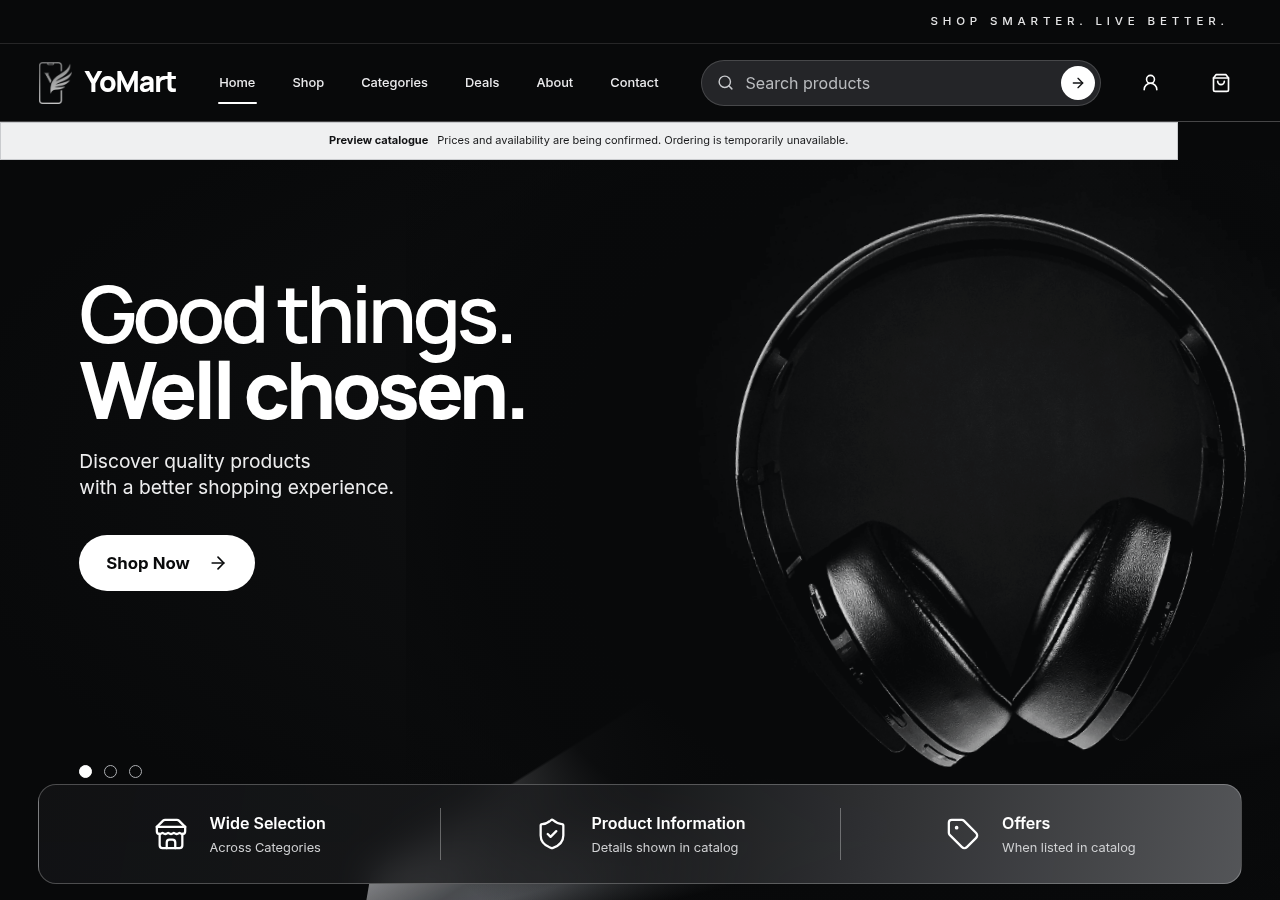
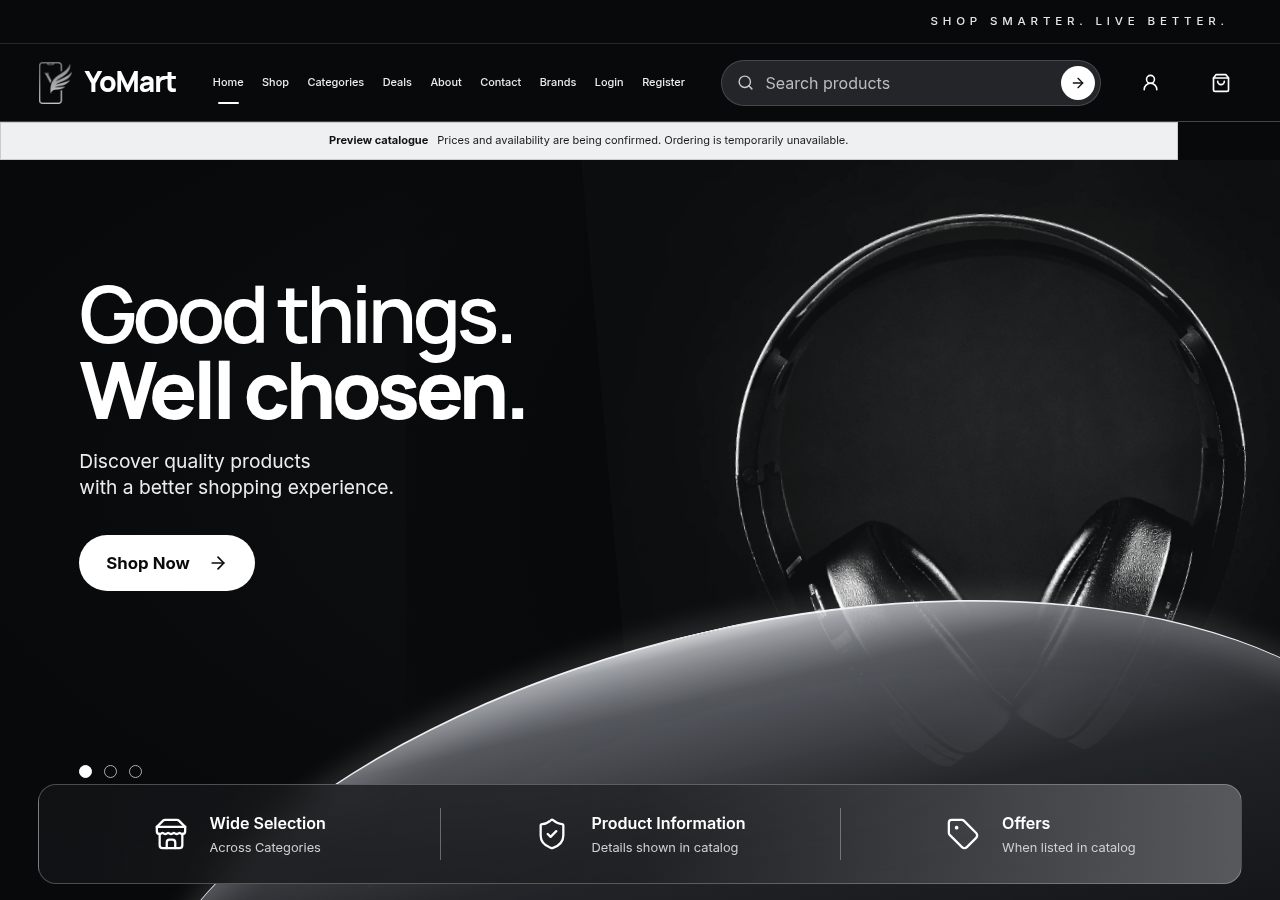
fix: restore homepage silver arc and navigation

diff --git a/src/style.css b/src/style.css
@@ -863,14 +863,16 @@ main > * { animation: page-enter 520ms var(--ease-emphasized) both; }
 .home-site-frame .main-nav a { min-height: 48px; padding-inline: clamp(7px, 1.05vw, 17px); color: #ececee; font-size: clamp(.78rem, 1vw, .95rem); white-space: nowrap; }
 .home-site-frame .main-nav a:hover { background: rgb(255 255 255 / 8%); }
 .home-site-frame .main-nav a.active::after { right: 12px; bottom: 3px; left: 12px; height: 2px; }
+.home-site-frame .main-nav .home-nav-brands-link,
+.home-site-frame .main-nav .home-nav-auth-link { display: inline-flex; }
+.home-site-frame .main-nav { flex: 0 1 auto; gap: clamp(0px, .35vw, 6px); }
+.home-site-frame .main-nav a { padding-inline: clamp(4px, .55vw, 9px); font-size: clamp(.68rem, .83vw, .78rem); }
 .home-site-frame .header-search { max-width: 480px; height: 46px; border-color: rgb(255 255 255 / 16%); border-radius: 28px; background: #242528; }
 .home-site-frame .account-link { width: 40px; height: 44px; padding: 0; }
 .home-site-frame .account-link span { display: none; }
 .home-site-frame .bag-link { width: 42px; height: 44px; border: 0; border-radius: 0; }
 .home-site-frame .menu-toggle { display: none; }
 .home-site-frame .wordmark img { filter: grayscale(1) brightness(0) invert(1); }
-.home-site-frame .main-nav .home-nav-brands-link,
-.home-site-frame .main-nav .home-nav-auth-link { display: none; }
 .home-site-frame .preview-catalog-notice { margin: 0; border-radius: 0; }
 .homepage { color: #f7f7f8; background: #08090a; }
 .homepage .hero-wrap { position: relative; width: 100%; min-height: min(810px, calc(100svh - 150px)); margin: 0; padding: clamp(72px, 9vw, 150px) max(6.2vw, calc((100% - 1500px) / 2)) 148px; overflow: hidden; display: block; border: 0; border-radius: 0; isolation: isolate; background: radial-gradient(ellipse at 82% 42%, #151618 0%, #0c0d0e 47%, #08090a 76%); box-shadow: none; }
@@ -885,10 +887,10 @@ main > * { animation: page-enter 520ms var(--ease-emphasized) both; }
 .homepage .hero-shop-button:focus-visible { outline: 3px solid #9ea1a6; outline-offset: 4px; }
 .homepage .hero-stage { position: absolute; z-index: auto; top: 0; right: 0; bottom: 115px; width: 61%; max-height: none; aspect-ratio: auto; pointer-events: none; animation: none; }
 .homepage .hero-stage::before { position: absolute; z-index: 1; inset: -18% -12%; background: radial-gradient(ellipse at 54% 52%, #08090a 0 49%, rgb(8 9 10 / 94%) 62%, transparent 88%); content: ''; }
-.homepage .hero-silver-arc { position: absolute; display: block; border-radius: 50%; transform: rotate(-26deg); }
-.homepage .hero-silver-arc-one { display: none; }
-.homepage .hero-silver-arc-two { display: none; }
-.homepage .hero-headphones { position: absolute; z-index: 2; top: 3%; right: -12%; width: 100%; height: 96%; object-fit: contain; object-position: 52% 49%; transform: translateY(6%) scale(1.55) rotate(-5deg); mix-blend-mode: screen; filter: grayscale(1) contrast(1.12) drop-shadow(0 24px 34px rgb(0 0 0 / 48%)); }
+.homepage .hero-silver-arc { position: absolute; display: block; border-radius: 50%; pointer-events: none; }
+.homepage .hero-silver-arc-one { z-index: 3; left: -50%; bottom: -83%; width: 172%; height: 110%; transform: rotate(-13deg); border-top: 2px solid rgb(246 247 249 / 92%); background: linear-gradient(180deg, rgb(222 224 228 / 88%) 0%, rgb(167 170 176 / 88%) 2%, rgb(91 94 100 / 92%) 9%, rgb(36 38 42 / 96%) 29%, #101113 64%, #08090a 100%); box-shadow: inset 0 16px 28px rgb(255 255 255 / 15%), 0 -10px 24px rgb(225 227 230 / 14%); }
+.homepage .hero-silver-arc-two { z-index: 2; left: -34%; bottom: -88%; width: 155%; height: 105%; transform: rotate(-13deg); border-top: 1px solid rgb(30 31 34 / 95%); background: linear-gradient(180deg, rgb(38 40 44 / 92%), #08090a 42%); }
+.homepage .hero-headphones { position: absolute; z-index: 2; top: 3%; right: -12%; width: 100%; height: 96%; object-fit: contain; object-position: 52% 49%; transform: translateY(6%) scale(1.55) rotate(-5deg); mix-blend-mode: screen; filter: grayscale(1) brightness(1.25) contrast(1.1) drop-shadow(0 24px 34px rgb(0 0 0 / 48%)); }
 .homepage .hero-indicators { position: absolute; z-index: 4; bottom: 132px; left: max(6.2vw, calc((100% - 1500px) / 2)); display: flex; gap: 12px; }
 .homepage .hero-indicators i { width: 13px; height: 13px; border: 1px solid #aeb0b4; border-radius: 50%; background: transparent; }
 .homepage .hero-indicators i.active { border-color: #fff; background: #fff; }
@@ -921,8 +923,6 @@ main > * { animation: page-enter 520ms var(--ease-emphasized) both; }
   .home-site-frame .menu-toggle { order: 3; display: grid; }
   .home-site-frame .main-nav { top: calc(100% + 4px); right: 12px; left: 12px; display: none; align-items: stretch; flex-direction: column; gap: 0; padding: 8px; border: 1px solid #444; border-radius: 10px; background: #111214; }
   .home-site-frame .main-nav.is-open { display: flex; }
-  .home-site-frame .main-nav .home-nav-brands-link,
-  .home-site-frame .main-nav .home-nav-auth-link { display: inline-flex; }
   .home-site-frame .main-nav a { min-height: 42px; color: #fff; font-size: .9rem; }
   .home-site-frame .header-search { order: 4; flex: 0 0 100%; max-width: none; height: 40px; margin: 0; }
   .home-site-frame .preview-catalog-notice { order: 5; width: calc(100% + 32px); margin-inline: -16px; font-size: .68rem; }
@@ -931,17 +931,18 @@ main > * { animation: page-enter 520ms var(--ease-emphasized) both; }
   .homepage .hero-copy h1 { max-width: 11ch; margin-bottom: 16px; font-size: clamp(3.2rem, 14vw, 4.1rem); }
   .homepage .hero-copy > p { max-width: 28ch; font-size: 1rem; }
   .homepage .hero-shop-button { min-height: 48px; margin-top: 22px; padding-inline: 21px; font-size: .94rem; }
-  .homepage .hero-stage { top: 150px; right: -10%; bottom: 96px; width: 110%; height: auto; }
-  .homepage .hero-stage::before { inset: -4% -10%; background: radial-gradient(ellipse at 58% 46%, #08090a 0 45%, rgb(8 9 10 / 92%) 60%, transparent 84%); }
-  .homepage .hero-headphones { top: 3%; right: -27%; width: 100%; height: 100%; object-fit: contain; object-position: 50% 38%; transform: translateY(-3%) scale(1.5) rotate(-5deg); }
-  .homepage .hero-silver-arc-one { top: 10%; right: -2%; width: 90%; height: 78%; border-width: 30px; }
-  .homepage .hero-silver-arc-two { bottom: -18%; height: 43%; }
-  .homepage .hero-indicators { bottom: 108px; left: 25px; }
-  .homepage .hero-features { right: 12px; bottom: 12px; left: 12px; min-height: 78px; border-radius: 12px; }
-  .homepage .hero-features > div { min-height: 54px; flex-direction: column; gap: 3px; text-align: center; }
-  .homepage .hero-features svg { width: 19px; height: 19px; }
-  .homepage .hero-features strong { font-size: .64rem; }
-  .homepage .hero-features small { max-width: 13ch; font-size: .56rem; }
+  .homepage .hero-stage { top: 140px; right: -10%; bottom: 0; width: 110%; height: auto; }
+  .homepage .hero-stage::before { inset: -4% -10%; background: radial-gradient(ellipse at 58% 42%, #08090a 0 42%, rgb(8 9 10 / 92%) 56%, transparent 82%); }
+  .homepage .hero-headphones { top: 0; right: -18%; width: 100%; height: 100%; object-fit: contain; object-position: 50% 38%; transform: translateY(-5%) scale(1.28) rotate(-5deg); }
+  .homepage .hero-silver-arc-one { left: -57%; bottom: -83%; width: 190%; height: 112%; transform: rotate(-9deg); }
+  .homepage .hero-silver-arc-two { left: -48%; bottom: -96%; width: 176%; height: 112%; transform: rotate(-9deg); }
+  .homepage .hero-indicators { bottom: 148px; left: 25px; }
+  .homepage .hero-features { right: 12px; bottom: 12px; left: 12px; min-height: 130px; grid-template-columns: repeat(2, minmax(0, 1fr)); grid-template-rows: 1fr 1fr; border-radius: 12px; }
+  .homepage .hero-features > div { min-height: 54px; flex-direction: row; gap: 8px; padding-inline: 8px; text-align: left; }
+  .homepage .hero-features > div:nth-child(3) { grid-column: 1 / -1; min-height: 50px; justify-content: center; border-top: 1px solid rgb(255 255 255 / 28%); border-left: 0; }
+  .homepage .hero-features svg { width: 20px; height: 20px; flex: none; }
+  .homepage .hero-features strong { font-size: .68rem; }
+  .homepage .hero-features small { max-width: none; font-size: .67rem; line-height: 1.2; }
 }
 @media (hover: none) {
   .quick-add { opacity: 1; transform: none; }

diff --git a/docs/redesign-review/homepage/review-notes.md b/docs/redesign-review/homepage/review-notes.md
@@ -9,11 +9,12 @@ The PNG files in this directory are browser screenshots of the local staging bui
 - The homepage uses the black, charcoal, white, and silver direction, official YoMart wordmark asset, search/navigation/account/cart controls, Shop Now action, carousel indicators, and bottom feature strip.
 - The hero headphones remain illustrative and are not presented as a catalog product.
 - Homepage navigation order now follows Home, Shop, Categories, Deals, About, Contact.
-- The headphone image uses a screen blend over a dark radial backing to avoid the former rectangular photograph boundary while keeping the dark earcups opaque. The mobile art is larger, shifted higher and right to preserve the text/action column; all three feature groups fit inside the 390×844 capture.
+- The headphone image uses a screen blend over a dark radial backing to avoid the former rectangular photograph boundary. A broad silver foreground sweep now layers over the lower headphone area with a thin bright edge. Mobile keeps the text/action column clear, shows two feature groups side by side and a third across the strip, and keeps all three groups inside the 390×844 capture.
+- Desktop navigation includes Home, Shop, Categories, Deals, About, Contact, Brands, Login, and Register; the header search, account, and cart remain available.
 - Homepage CSS is scoped to the homepage selectors and responsive overrides.
 
 ## Outstanding visual work
 
 - The supplied approved reference image was not present as a local file and is therefore not stored as `docs/design-reference/homepage-approved.png`. The screenshots cannot be compared pixel-by-pixel to the source reference until that original file is made available.
-- The available headphone source is front-facing rather than the reference's angled product composition. The dark radial backing removes the visible silver-through-earcup artifact, but the artwork and metallic curves remain visibly different from the approved composition, so visual acceptance is pending.
+- The available headphone source is front-facing rather than the reference's angled product composition. The metallic foreground sweep is CSS-rendered and remains an approximation of the approved studio surface, so visual acceptance is pending.
 - The preview banner is visible because this is a staging build; it is not part of a production page capture.
